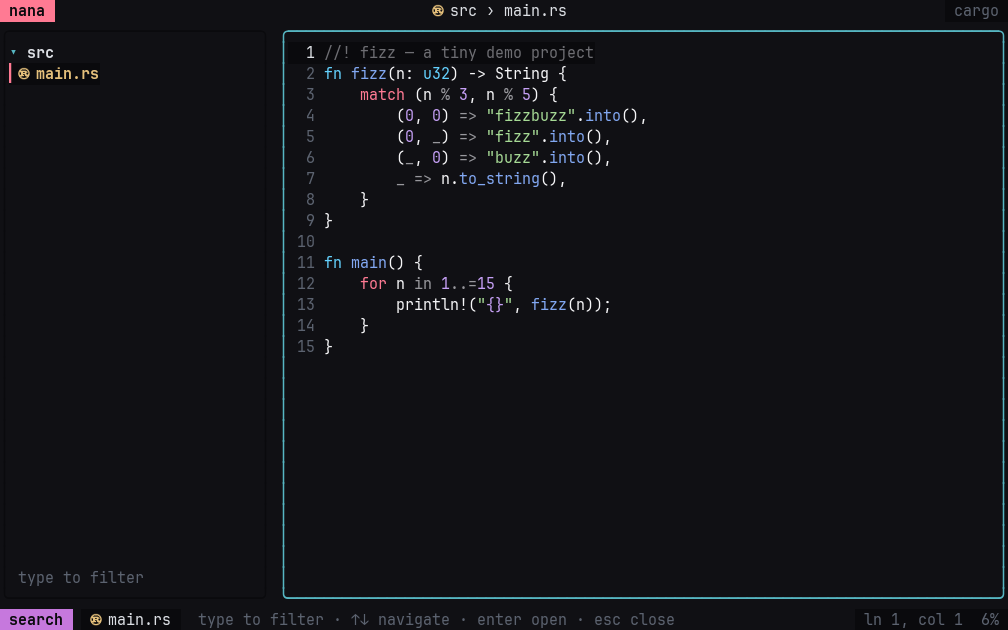
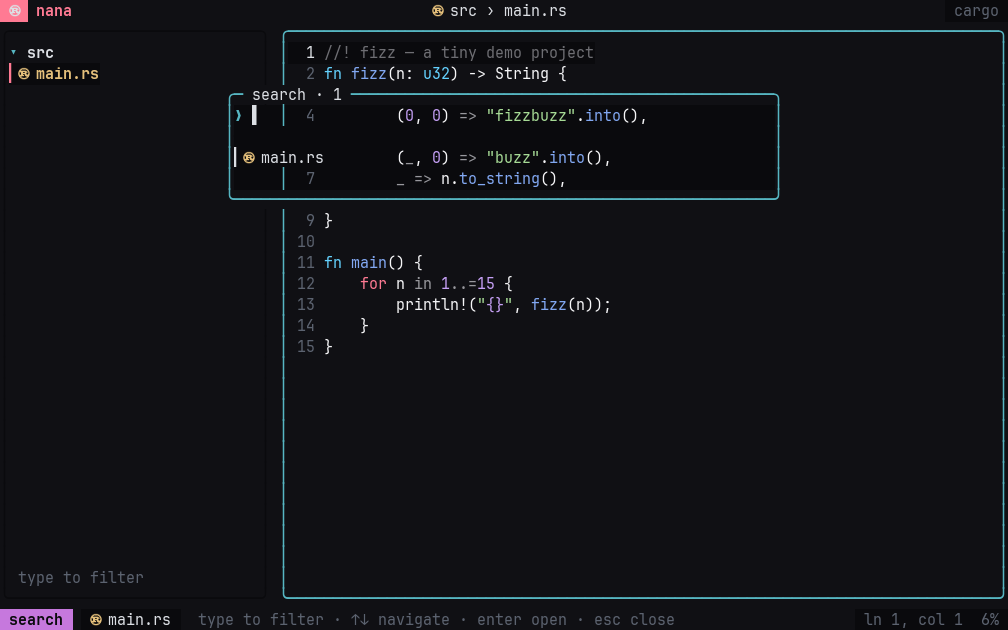
fix the fuzzy search panel for a single result, fix the run cwd, answer terminal queries
- the search float refused to draw when it had fewer than two rows, so
  ctrl+o showed a focus state with no ui. it now always keeps room for the
  prompt and one result.
- f5 built its cd line from a relative path: a checker or a runner started
  in the file's directory could not find the file again. paths are handed
  over absolute now.
- the built-in terminal answers device-attribute, colour and cursor
  queries, so shells that wait for a terminal reply (fish, starship) start
  instead of hanging.
- the brand wears the rust glyph: it says what nana is written in.
- screenshots regenerated from the current build; readme gains the search
  panel and the generated language count (105).

diff --git a/src/editor.rs b/src/editor.rs
@@ -2464,7 +2464,9 @@ fn draw_statusbar(frame: &mut Frame, ed: &Editor, area: ratatui::layout::Rect) {
 fn draw_search(frame: &mut Frame, fs: &mut FileSearch, zone: ratatui::layout::Rect, focused: bool) {
     let w = zone.width.saturating_sub(8).min(62);
     let rows_h = (fs.len().min(9) as u16).max(1);
-    let h = (rows_h + 4).min(zone.height.saturating_sub(2)); // input + séparateur + bords
+    // prompt + separator + borders, and never so short that the guard below
+    // refuses to draw a search with a single result
+    let h = (rows_h + 4).max(6).min(zone.height.saturating_sub(2));
     if w < 24 || h < 6 {
         return;
     }
@@ -3810,6 +3812,29 @@ mod diag_tests {
 
     /// ^O : la frappe filtre, Enter ouvre le fichier, Échap referme.
     #[test]
+    /// A search with a single result still draws its floating panel: the
+    /// height guard used to swallow it, leaving a focus state with no ui.
+    #[test]
+    fn la_recherche_dessine_meme_avec_un_seul_resultat() {
+        let dir = std::env::temp_dir().join(format!("nana-srch-{}-b", std::process::id()));
+        let _ = std::fs::remove_dir_all(&dir);
+        std::fs::create_dir_all(&dir).unwrap();
+        std::fs::write(dir.join("seul.py"), "x = 1\n").unwrap();
+
+        let mut ed = Editor::open(None).unwrap();
+        ed.explorer = Some(Explorer::new(dir.clone()));
+        ed.focus = Focus::Explorer;
+        ed.on_key(KeyEvent::new(KeyCode::Char('o'), KeyModifiers::CONTROL));
+        assert_eq!(ed.search.as_ref().map(|s| s.len()), Some(1));
+        let text = render_text(&mut ed, 100, 30);
+        assert!(
+            text.contains("search · 1"),
+            "the panel must be drawn: {text}"
+        );
+        assert!(text.contains("seul.py"), "and list the file");
+        let _ = std::fs::remove_dir_all(dir);
+    }
+
     fn recherche_flottante_ouvre_un_fichier() {
         let dir = std::env::temp_dir().join(format!("cnano-srch-{}-a", std::process::id()));
         let _ = std::fs::remove_dir_all(&dir);

diff --git a/README.md b/README.md
@@ -58,6 +58,12 @@ modern shells start cleanly inside it.
 
 ![the explorer panel focused](docs/shots/panels.png)
 
+### fuzzy file search
+
+`ctrl+o` filters the project as you type.
+
+![the fuzzy file search](docs/shots/search.png)
+
 ## install
 
 from source (rust 1.75+):
